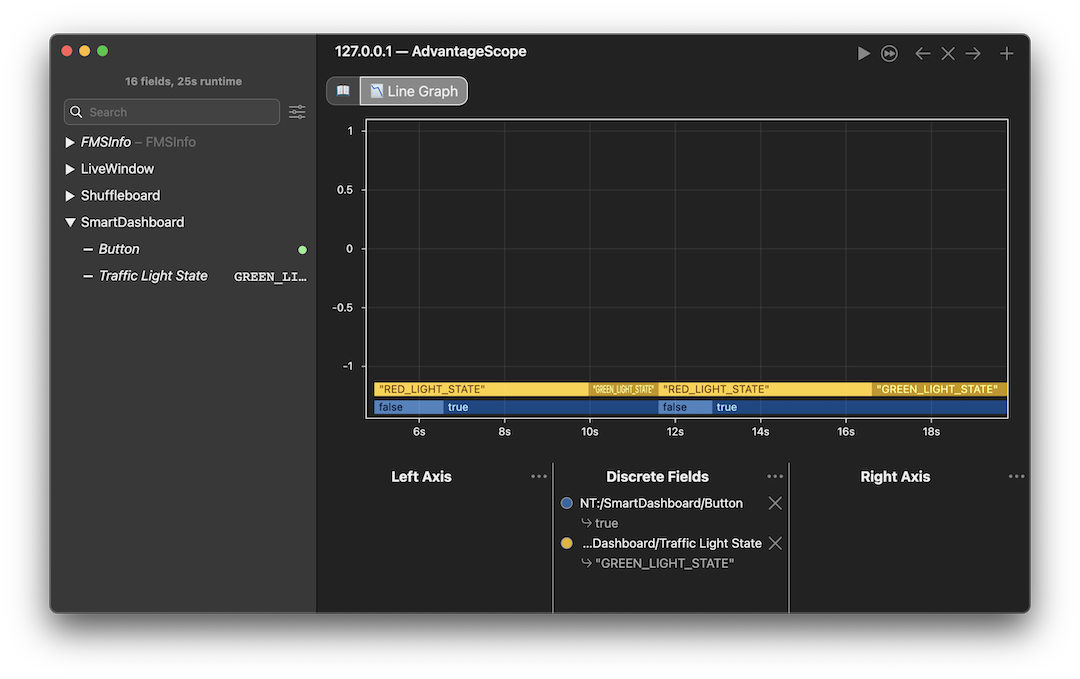
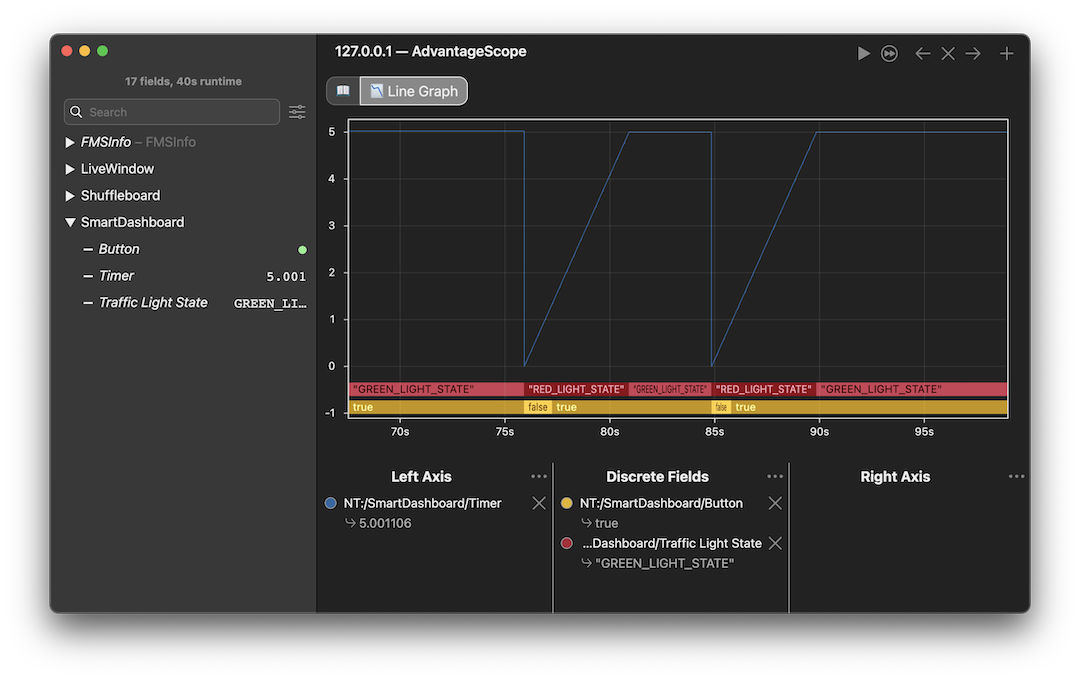
Add timer to SmartDashboard
This way we have a demo of all 3 SmartDashboard types.

diff --git a/src/main/java/frc/robot/systems/TrafficLightSystem.java b/src/main/java/frc/robot/systems/TrafficLightSystem.java
@@ -107,6 +107,7 @@ public class TrafficLightSystem {
 		// Publish current state for debugging
 		SmartDashboard.putString("Traffic Light State", currentState.toString());
 		SmartDashboard.putBoolean("Button", crosswalkButton.get());
+		SmartDashboard.putNumber("Timer", timer.get());
 	}
 
 	/**

diff --git a/README.md b/README.md
@@ -50,13 +50,13 @@ Switch the "Robot State" to "Teleoperated" to start running the teleop code. You
 
 You may have noticed that the `update()` function for the `TrafficLightSystem` includes some calls to SmartDashboard. [SmartDashboard](https://docs.wpilib.org/en/stable/docs/software/dashboards/smartdashboard/displaying-expressions.html) is a simple way to publish values from your code that can be displayed on the driver station for much easier debugging than sprinkling `println()` calls across your code.
 
-SmartDashboard provides a set of API like `putString`, `putBoolean`, and `putNumber` that each take in a String key to label the value with and the value to save to the log. You can see in the `update()` function we are currently logging the current state of the `TrafficLightSystem` as well as the value of the button.
+SmartDashboard provides a set of API like `putString`, `putBoolean`, and `putNumber` that each take in a String key to label the value with and the value to save to the log. You can see in the `update()` function we are currently logging the current state of the `TrafficLightSystem`, the value of the button, and the internal timer value.
 
 Let's see this in action. [AdvantageScope](https://docs.wpilib.org/en/stable/docs/software/dashboards/advantagescope.html) is the new debugging dashboard provided as part of WPILib. You can open it by running `WPILib: Start Tool` from the command pallete in VSCode, then selecting `AdvantageScope`. In AdvantageScope, select File->Connect to Simulator, then launch the simulator from VSCode.
 
 ![AdvantageScope Graph View](/doc/AdvantageScopeWindow.png)
 
-Once the simulation has started, you should see a set of values appear in the left sidebar of the AdvantageScope window. Under SmartDashboard, you should be able to see the two values we published from our `update()` function. Drag these from the left sidebar into the "Discrete Fields" section of the graph.
+Once the simulation has started, you should see a set of values appear in the left sidebar of the AdvantageScope window. Under SmartDashboard, you should be able to see the values we published from our `update()` function. Drag the string and boolean values from the left sidebar into the "Discrete Fields" section of the graph. Drag the numeric timer value into the "Left Axis" section.
 
 Next, switch the simulation to teleop and press the button a few times. Notice how in AdvantageScope we can see the values update in real time, as well as the internal state of our `TrafficLightSystem`. Try using double click in the timeline view to measure how long we are staying in `RED_LIGHT_STATE`.
 
